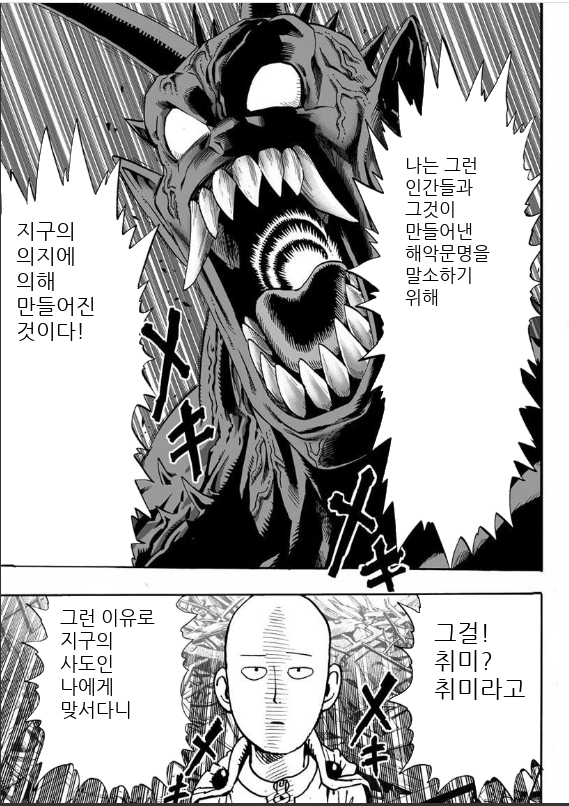
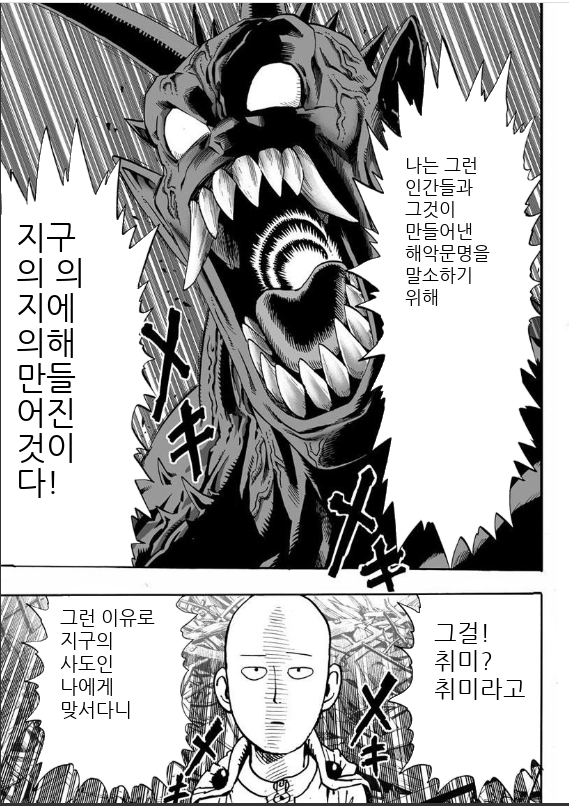
상자 크기에 맞춰 알잘딱 식질함

Changed region(s): [[0.0299, 0.2792, 0.1793, 0.6203]]

diff --git a/src/utils.py b/src/utils.py
@@ -209,8 +209,14 @@ def get_textbox(text, width, height):
         line_bag = []
         buffer = ''
         text_left = text
+
+        exception = False
         
         while True:
+            # if one word is larger than width
+            if font.getsize(text_left[0])[0] > width:
+                exception = True
+                break
             # add one symbol
             buffer += text_left[0]
             text_left = text_left[1:len(text_left)]
@@ -238,7 +244,7 @@ def get_textbox(text, width, height):
         # debug_drawer.text((0,0), lined_text, (255, 255, 255), font)
         # debug_image.show()
 
-        if (lined_size[1]+4) * len(line_bag) > height:
+        if (lined_size[1]+4) * len(line_bag) > height or exception:
             lined_text = '\n'.join(line_bag_before)
             size -= 1
             break
@@ -325,7 +331,19 @@ def write_text(image, contours, box_list, text_list, split_by_word=0):
         box = box_list[i]
         text = text_list[i]
         [x, y, w, h] = box
-        lined_text, size = get_textbox(text, w, h) if split_by_word == 0 else get_textbox_word(text, w, h)
+        
+        symbol_lined_text, symbol_size = get_textbox(text, w, h)
+        word_lined_text, word_size = get_textbox_word(text, w, h)
+        
+        lined_text = []
+        size = 0
+        ratio = 1.5
+        if symbol_size / word_size > ratio:
+            lined_text = symbol_lined_text
+            size = symbol_size
+        else:
+            lined_text = word_lined_text
+            size = word_size
 
         font = ImageFont.truetype(font_dir, size)
 
